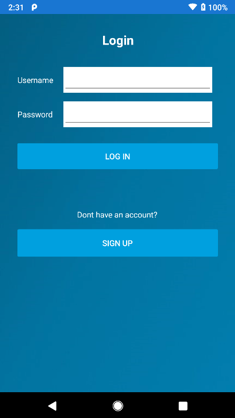
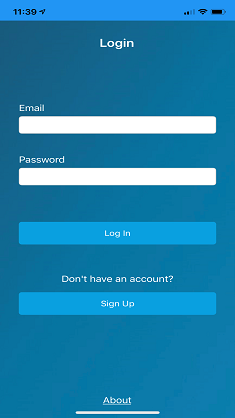
mg100: docs: further documentation updates
this change makes the following documentation updates.
-add Laird Connectivity branding
-update the overall description of the MG100 in the README.md file
-update a few screenshots to account for UI changes recently made
-various other updates to wording to make things clearer to the reader

Bug 17128

diff --git a/docs/readme_ltem_aws.md b/docs/readme_ltem_aws.md
@@ -6,28 +6,29 @@
 2. **[Resources](#resources)**
 3. **[Prerequisites](#prerequisites)**
 4. **[Setup](#setup)**
-5. **[Using the Demo](#using-the-demo)**
-   [Signup and Login](#signup-and-login)
-   [Scan for Devices](#scan-for-devices)
-   [Home Page](#home-page)
-   [Provision](#provision)
-   [Device Information](#device-information)
-   [MG100 Settings](#mg100-settings)
-   [Cellular Settings](#cellular-settings)
-   [Power Settings](#power-settings)
-6. **[Cloud Data](#cloud-data)**
-   [BT510 Sensor Data](#bt510-sensor-data)
+5. **[Using the Demo](#using-the-demo)**  
+   [Signup and Login](#signup-and-login)  
+   [Scan for Devices](#scan-for-devices)  
+   [Home Page](#home-page)  
+   [Provision](#provision)  
+   [Device Information](#device-information)  
+   [MG100 Settings](#mg100-settings)  
+   [Cellular Settings](#cellular-settings)  
+   [Power Settings](#power-settings)  
+6. **[Cloud Data](#cloud-data)**  
+   [BT510 Sensor Data](#bt510-sensor-data)  
 7. **[LED behavior](#led-behavior)**
 8. **[Development](#development)**
 
 ## Introduction
 
-The MG100 demonstrates gathering sensor data over BLE and sending the data to the cloud (AWS) via LTE-M.
-One device that can be used for the demo is the BL654 BME280 sensor. This sensor measures temperature, humidity, and pressure.
+The MG100 firmware in the AWS configuration gathers sensor data over BLE and sends the data to the cloud (AWS) via LTE-M.
+
+One device that can be used is the BL654 BME280 sensor. This sensor measures temperature, humidity, and pressure.
 
 Another supported sensor is the BT510. It records temperature and movement. The BT510 can also be configured to detect a door opened/closed.
 
-The MG100 scans for the BL654 sensor and connect to the first one it finds. At the same time, the MG100 gathers data for the BT510 devices from advertisements without creating a connection.
+The MG100 scans for the BL654 sensor and connects to the first one it finds. At the same time, the MG100 gathers data for the BT510 devices from advertisements without creating a connection.
 The demo supports one BL654 sensor and up to fifteen BT510 sensors. The demo can be recompiled to remove support for either sensor.
 
 Using the Laird Pinnacle Connect mobile app, the user can provision the MG100 to connect to AWS. Once connected to AWS, the MG100 sends BME280 sensor data (if a sensor is found) to the cloud every 60 seconds. 
@@ -171,7 +172,7 @@ _Cell settings_
 
 ### Power Settings
 
-The power settings page displays the battery voltage and allows the user to reboot the modem. MG100 variants, 450-00038-K1 and 450-00054-K1 are equipped with a rechargable Li-ion battery used for backup power when external power is lost. The battery will automatically start charging again once external power is restored and the the battery is not fully charged. The MG100 application monitors the battery voltage and temperature to provide remaining capacity left in the battery. This data is sent over ble or cellular to report voltage and remaining battery capacity. The battery thresholds are defaulted to reasonable values, but they can be modified via ble or the shadow if customization is desired. The threshold defaults are as follows. The lowest the battery is allowed to discharge to is 2.75V before the undervoltage protection hardware kicks in.  
+The power settings page displays the battery voltage and allows the user to reboot the modem. MG100 variants, 450-00038-K1 and 450-00054-K1 are equipped with a rechargable Li-ion battery used for backup power when external power is lost. The battery will automatically start charging again once external power is restored and the the battery is not fully charged. The MG100 application monitors the battery voltage and temperature to provide remaining capacity left in the battery. This data is sent over BLE or cellular to report voltage and remaining battery capacity. The battery thresholds are defaulted to reasonable values, but they can be modified via BLE or the shadow if customization is desired. The threshold defaults are as follows. The lowest the battery is allowed to discharge to is 2.75V before the undervoltage protection hardware kicks in.  
 
 Battery Threshold 4 - 4200 mV  
 Battery Threshold 3 - 3800 mV  
@@ -181,9 +182,6 @@ Battery Threshold 1 - 3000 mV
 These thresholds are designed to provide approximately equal discharge time between thresholds 4-3 and 3-2. Below threshold 2, the amount of time left before the battery discharges completely, drops off quickly. This behavior can vary depending on conditions and battery health.
 
 This view displays the battery information. Note the MG100 does not allow for measuring the voltage of the external power supply like the Pinnacle 100 DVK. That is why power supply voltage is always shown as -1 for MG100 devices.
-
-WARNING: This product contains a Li-ion battery. There is a risk of fire and burns if the battery pack is handled improperly. Do not attempt to open or service the battery pack. Do not disassemble, crush, puncture, short external contacts or circuits, dispose of in fire or water, or expose a battery pack to temperatures higher than 60°C (140°F). The Sentrius MG100 gateway was designed to use the supplied battery pack only. Contact Laird Connectivity Technical support if a replacement is required.
-
 
 ![Power settings](images/mg100_power_settings.png)  
 _Power settings_
@@ -212,7 +210,7 @@ If a BME280 sensor is discovered, the MG100 connects and reports BME280 sensor d
 
 ### BT510 Sensor Data
 
-If a BT510 sensor is discovered, it displays in the Sensor Network list.
+If a BT510 sensor is discovered, it is displayed in the Sensor Network list.
 
 ![BT510 discovered](images/bt510_discovered.png)  
 _BT510 discovered_

diff --git a/docs/readme_nbiot_lwm2m.md b/docs/readme_nbiot_lwm2m.md
@@ -6,10 +6,10 @@
 2. **[Resources](#resources)**
 3. **[Prerequisites](#prerequisites)**
 4. **[Setup](#setup)**
-5. **[Using the Demo](#using-the-demo)**
-   [Auto Commissioning](#auto-commissioning)
-   [Manual Commissioning](#manual-commissioning)
-   [View Cloud Data](#view-cloud-data)
+5. **[Using the Demo](#using-the-demo)**  
+   [Auto Commissioning](#auto-commissioning)  
+   [Manual Commissioning](#manual-commissioning)  
+   [View Cloud Data](#view-cloud-data)  
 6. **[User Defined Server](#user-defined-server)**
 7. **[LED behavior](#led-behavior)**
 8. **[Development](#development)**
@@ -17,7 +17,7 @@
 ## Introduction
 
 When using NB-IoT, we do not recommend using the TCP protocol due to the network latencies inherent to NB-IoT. UDP is recommended for NB-IoT data transfer.
-This demo is configured to use LwM2M and DTLS with pre-shared keys.  [LightweightM2M (LwM2M)](http://www.openmobilealliance.org/wp/Overviews/lightweightm2m_overview.html) is a protocol that runs on top of [CoAP](https://coap.technology/).
+In this configuration, the MG100 is configured to use LwM2M and DTLS with pre-shared keys.  [LightweightM2M (LwM2M)](http://www.openmobilealliance.org/wp/Overviews/lightweightm2m_overview.html) is a protocol that runs on top of [CoAP](https://coap.technology/).
 
 A [Leshan Server](https://www.eclipse.org/leshan/) is used to display information about the MG100 and a connected BL654 BME280 sensor.
 
@@ -67,7 +67,7 @@ X                                X
 
 The following are required to use the MG100:
 
-- An activated SIM card. The Truphone SIM card that comes with the DVK does not currently support NB-IoT. If you have purchased a MG100 in Europe, then please contact [sales](mailto:melanie.thomas@lairdconnect.com) to obtain a SIM card that is NB-IoT capable.
+- An activated SIM card. The Truphone SIM card that comes with the DVK does not currently support NB-IoT. If you have purchased a MG100 in Europe, then please contact [sales](mailto:sales@lairdconnect.com) to obtain a SIM card that is NB-IoT capable.
 - MG100 programmed with NB-IoT/LwM2M MG100 firmware.
 - Laird Pinnacle Connect app installed on a mobile device
   - [Android app](http://play.google.com/store/apps/details?id=com.lairdconnect.pinnacle.connect)
@@ -75,12 +75,10 @@ The following are required to use the MG100:
 
 ## Setup
 
-To set up the demo, follow these steps:
+To set up the MG100, follow these steps:
 
-1. Install the activated SIM card into the MG100 SIM slot.
-2. Plug the modem into the dev board.
-3. Program the latest MG100 firmware. See section 3.1.1 of the Programming Guide [here](https://www.lairdconnect.com/)
-4. On your phone, launch the Pinnacle mobile app and follow the on-screen prompts.
+1. Ensure an *activated* SIM card is inserted into the MG100 SIM slot.
+2. On your phone, launch the Pinnacle mobile app and follow the on-screen prompts.
 
 ## Using the Demo
 If the Laird Connectivity Leshan server is used, then the MG100 should be configured to something other than its default settings. This allows multiple MG100 devices to connect to the same server.
@@ -104,12 +102,12 @@ _Auto-commission device_
 ![Leshan add device](images/leshan_add_device.png)  
 _Leshan add device_
 
-4. Using the Pinnacle Connect mobile app, read model number from Device Information page.
+4. Using the Pinnacle Connect mobile app, read the model number from the Device Information page.
 
 ![Model number](images/app_model_number.png)  
 _Model number_
 
-5. With the mobile app, read IMEI from Cellular Settings page.
+5. With the mobile app, read the IMEI from the Cellular Settings page.
 
 ![IMEI](images/app_imei.png)  
 _IMEI_
@@ -150,8 +148,6 @@ In addition to the steps in the [Using the Demo](#using-the-demo) section, the P
 
 ## LED behavior
 
-LED1 - LED4 are on when the modem is booting.
-
 The Blue LED (LED1) blinks once a second when the MG100 is searching for a BL654 sensor. When it finds a sensor and successfully connects to it, the LED remains on.
 
 The Green LED (LED2) can be controlled via the LwM2M server Light Control object.
@@ -159,4 +155,4 @@ The Green LED (LED2) can be controlled via the LwM2M server Light Control object
 The Red LED (LED3) blinks when the MG100 is searching for a cellular network. It remains on and does not blink when connected to a network. If there is an error with the SIM card or network registration, then the LED remains off.
 
 ## Development
-The LwM2M demo is built with [this overlay config file](../oob_demo/overlay_lwm2m_dtls.conf). See [here](development.md) for help on getting started with custom development.
+The LwM2M demo is built with [this overlay config file](../mg100/overlay_lwm2m_dtls.conf). See [here](development.md) for help on getting started with custom development.

diff --git a/README.md b/README.md
@@ -1,10 +1,17 @@
-# MG100
 
-The MG100 is designed to gather sensor data over BLE and transfer it to the cloud. It can operate in two modes:
+[![Laird Connectivity](docs/images/LairdConnnectivityLogo_Horizontal_RGB.png)](https://www.lairdconnect.com/)
+# MG100
+[![MG100](docs/images/MG100-Starter-Kit.png)](https://www.lairdconnect.com/iot-devices/iot-gateways/sentrius-mg100-gateway-lte-mnb-iot-and-bluetooth-5)
+
+The Sentrius MG100 Gateway is an out-of-the-box product allowing the end user to develop a fully featured IoT solution with minimum effort. With the addition of the optional battery backup, it provides uninterrupted reporting of sensor data. Additionally the sensor data is logged locally on an SD card to ensure data is captured even if the LTE connection is interrupted. Based on Laird Connectivity's Pinnacle 100 modem, the Sentrius MG100 Gateway captures data from Bluetooth 5 sensors and sends it to the cloud via a global low power cellular (LTE-M/NB-IoT) connection. It is based on the innovative integration of Nordic Semiconductor nRF52840 and the Sierra Wireless HL7800 module. This enables the MG100 hardware to support LTE-M/NB-IoT (supports LTE bands 1, 2, 3, 4, 5, 12, 13, 20, and 28) as well as Bluetooth 5 features like CODED PHY, 2M PHY, and LE Advertising Extensions.
+
+The MG100 firmware can operate in two modes:
 * [LTE-M and AWS](#lte-m-and-aws)
 * [NB-IoT and LwM2M](#nb-iot-and-lwm2m)
 
 These two modes are selected at compile time. See the following sections for documentation on the demo and how it operates.
+
+WARNING: This product contains a Li-ion battery. There is a risk of fire and burns if the battery pack is handled improperly. Do not attempt to open or service the battery pack. Do not disassemble, crush, puncture, short external contacts or circuits, dispose of in fire or water, or expose a battery pack to temperatures higher than 60 C (140 F). The Sentrius MG100 gateway was designed to use the supplied battery pack only. Contact Laird Connectivity Technical support if a replacement is required.
 
 ## Programming
 

diff --git a/docs/development.md b/docs/development.md
@@ -1,7 +1,7 @@
 # Developing and Debugging the Firmware
 The out of box demo source code can be used as a starting point for your own IoT cloud applications!
 This document will explain how to use Visual Studio Code to build and debug the application.
->**Note:** These instructions assume you already have the Zephyr tools installed and can build the app successfully.  Please see [here](../README.md#preparing-to-build) if you have not completed those steps.
+>**Note:** These instructions assume you already have the Zephyr tools installed and can build the app successfully.  Please see [here](https://github.com/LairdCP/MG100_firmware_manifest#preparing-to-build) if you have not completed those steps.
 
 ## Prerequisites
 1. Install [J-Link Software and Documentation Pack](https://www.segger.com/downloads/jlink/#J-LinkSoftwareAndDocumentationPack) for J-Link drivers and software.
